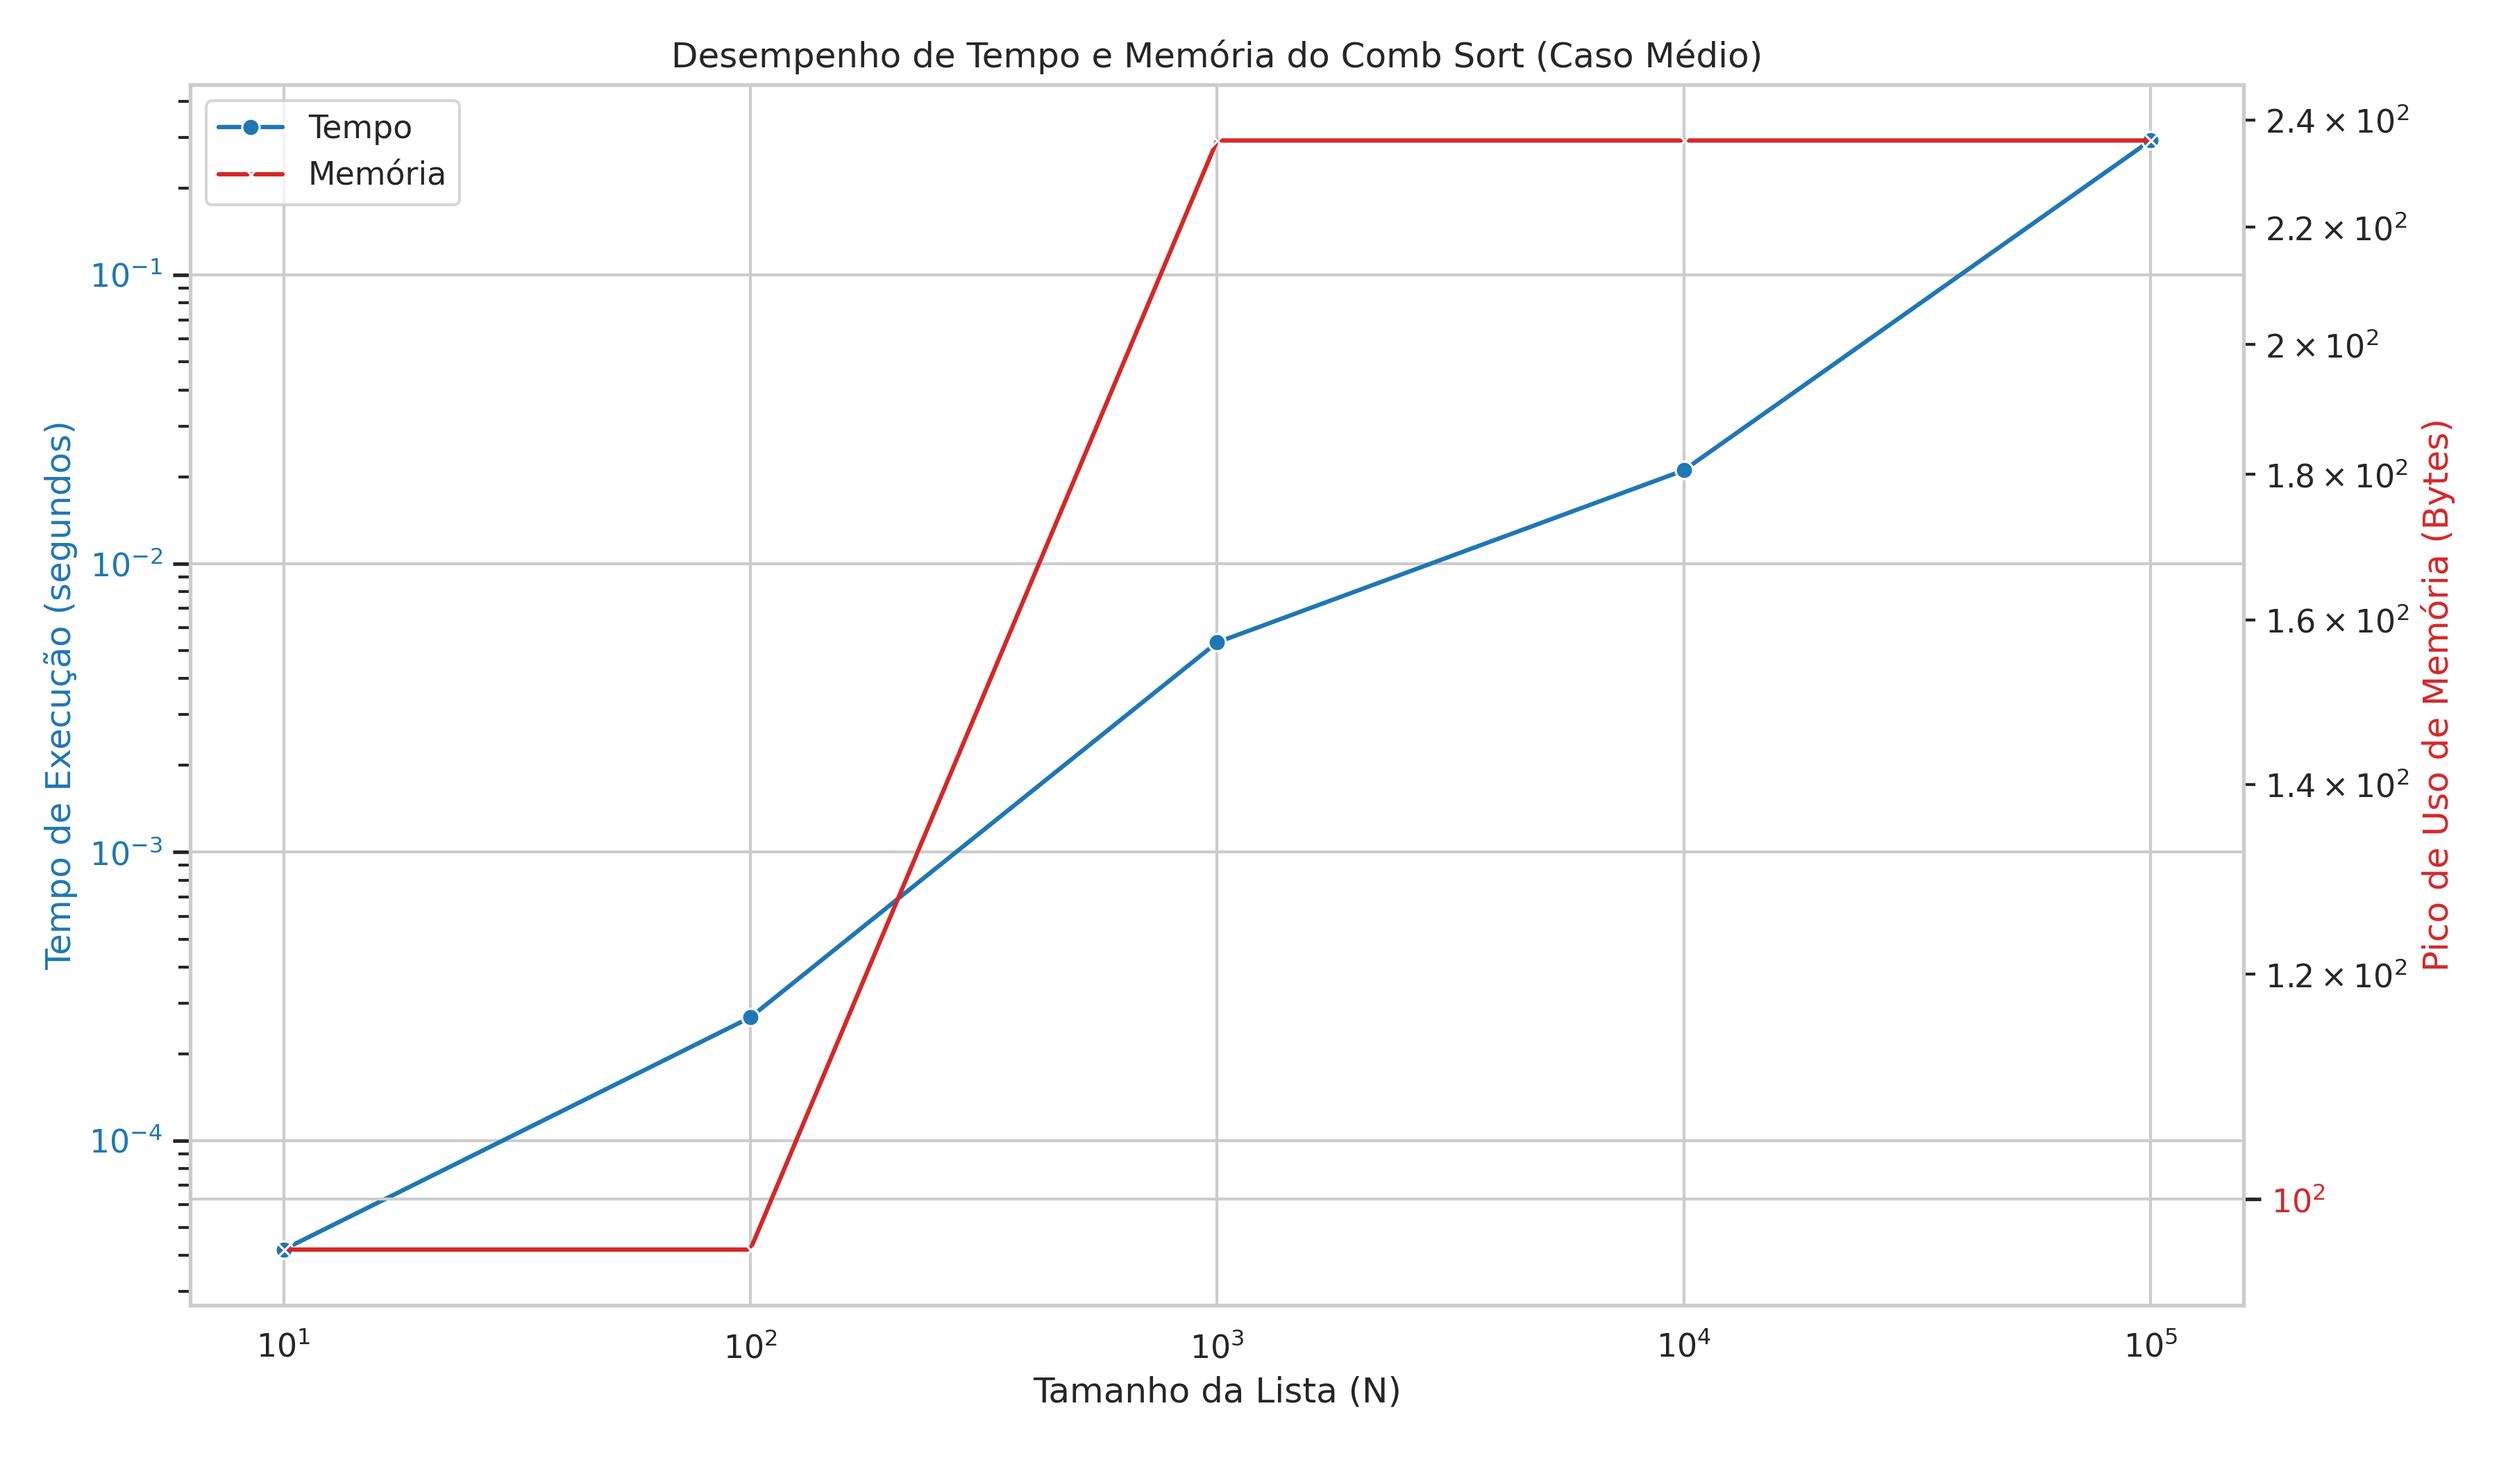
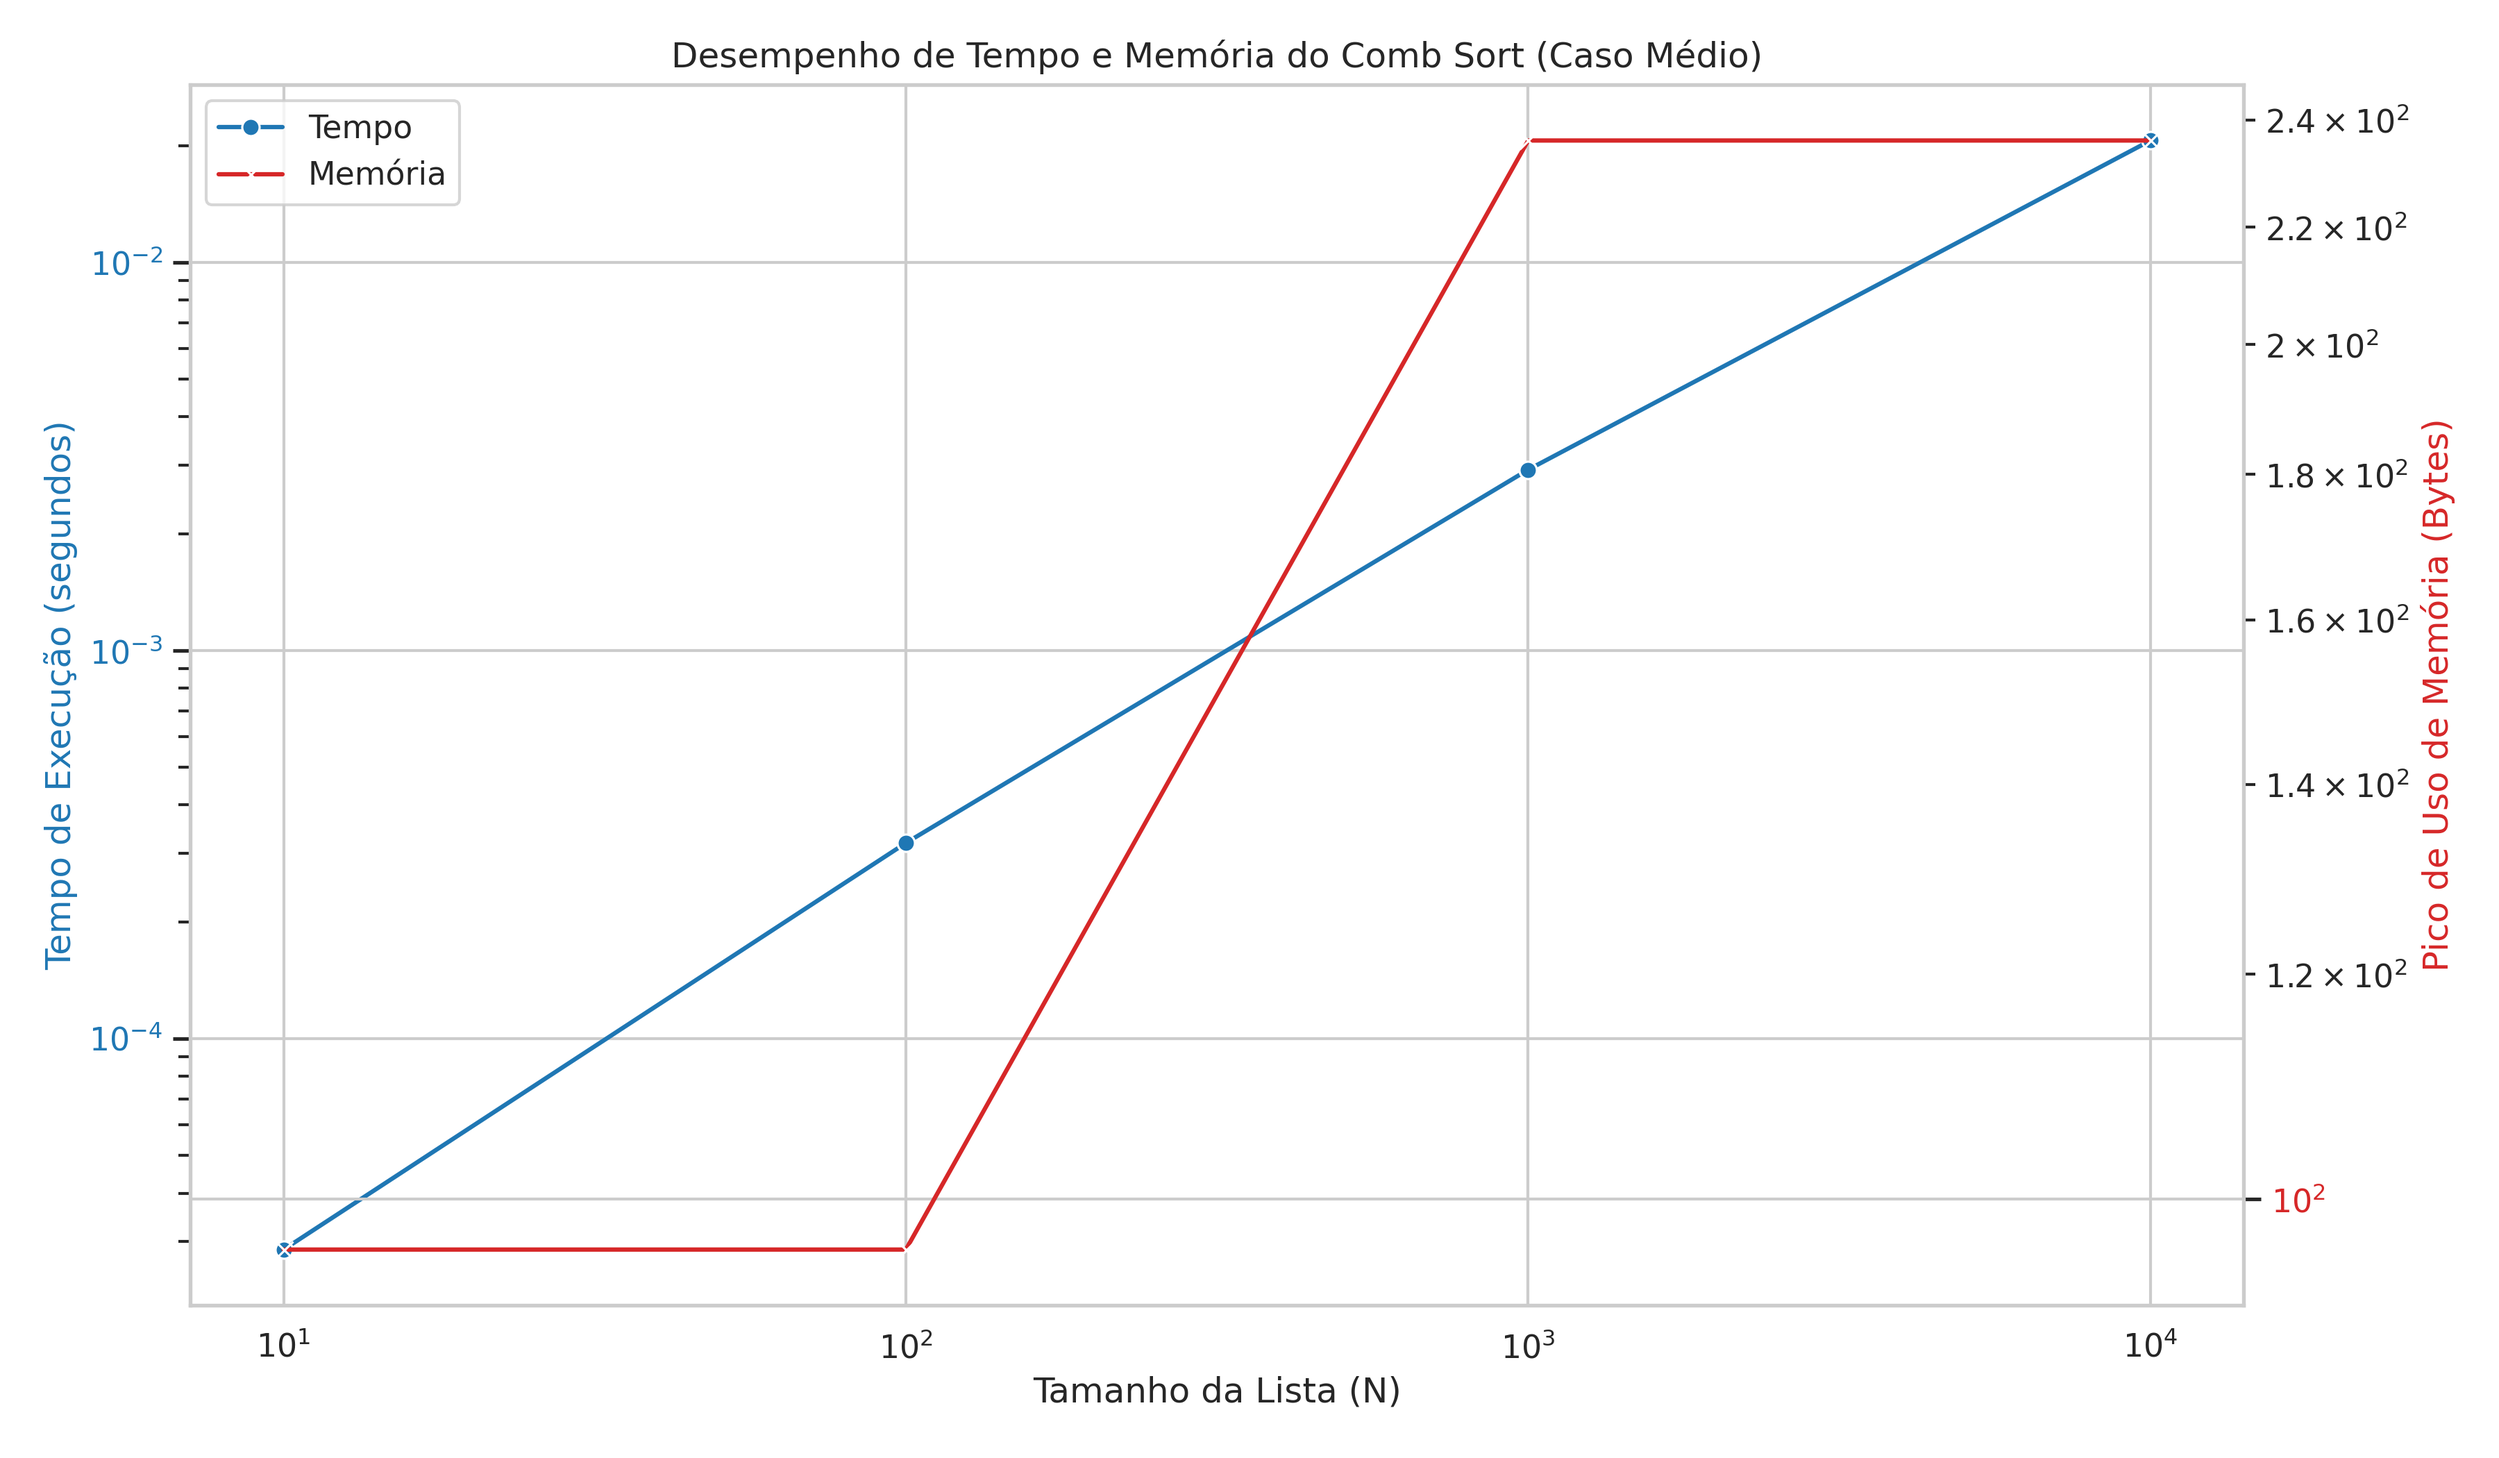
Versão atualizada com os outros algoritmos

diff --git a/CODIGO/GRAFICOS/graficos.py b/CODIGO/GRAFICOS/graficos.py
@@ -3,52 +3,40 @@ import matplotlib.pyplot as plt
 import seaborn as sns
 import os
 
-# --- Configurações ---
-NOME_PASTA_DADOS = "DADOS"
-NOME_PASTA_GRAFICOS = "GRAFICOS"
+NOME_PASTA_DADOS = "../DADOS" 
+NOME_PASTA_GRAFICOS = "." 
 
 # Nomes dos arquivos de entrada
-# ATENÇÃO: Verifique se o nome do arquivo da análise 1 corresponde ao seu arquivo gerado
-FICHEIRO_1 = "analise_1_tempo_memoria.csv" 
+FICHEIRO_1 = "analise_1_tempo_memoria.csv"
 FICHEIRO_2 = "analise_2_tipos_entrada_combsort.csv"
 FICHEIRO_3 = "analise_3_comparativa_algoritmos.csv"
 
-# Garante que a pasta para salvar os gráficos exista
 os.makedirs(NOME_PASTA_GRAFICOS, exist_ok=True)
 
 
 def grafico_1_tempo_e_memoria():
-    """
-    Gera um gráfico de escalabilidade com dois eixos Y (Tempo e Memória),
-    adaptado para ler um arquivo CSV mal formatado com dados alternados.
-    """
-    print("Gerando Gráfico 1: Escalabilidade de Tempo e Memória do Comb Sort...")
     caminho_arquivo = os.path.join(NOME_PASTA_DADOS, FICHEIRO_1)
     
-    # Carrega os dados. O cabeçalho está incorreto, mas vamos lidar com isso.
-    df = pd.read_csv(caminho_arquivo)
+    try:
+        df = pd.read_csv(caminho_arquivo)
+    except FileNotFoundError:
+        return
 
-    # --- INÍCIO DA MODIFICAÇÃO PARA LER DADOS ALTERNADOS ---
+    if 'Valor' in df.columns and 'Metrica' in df.columns:
+        df['Valor'] = pd.to_numeric(df['Valor'], errors='coerce')
+        df_tempo = df[df['Metrica'] == 'Tempo_Execucao']
+        df_memoria = df[df['Metrica'] == 'Memoria_Pico']
     
-    # Renomeia as colunas para facilitar o manuseio
-    df.columns = ['Tamanho_N', 'Valor']
+    elif len(df.columns) == 2:
+        df.columns = ['Tamanho_N', 'Valor']
+        df['Valor'] = pd.to_numeric(df['Valor'], errors='coerce')
+        df_tempo = df.iloc[0::2].copy()    
+        df_memoria = df.iloc[1::2].copy()  
+    else:
+        return
 
-    # Separa as linhas pares (índices 0, 2, 4...) que contêm o TEMPO
-    df_tempo = df.iloc[0::2].copy()
-    
-    # Separa as linhas ímpares (índices 1, 3, 5...) que contêm a MEMÓRIA
-    df_memoria = df.iloc[1::2].copy()
-    
-    # Converte a coluna 'Valor' de cada tabela para o tipo numérico
-    df_tempo['Valor'] = pd.to_numeric(df_tempo['Valor'])
-    df_memoria['Valor'] = pd.to_numeric(df_memoria['Valor'])
-
-    # --- FIM DA MODIFICAÇÃO ---
-
-    # --- Criação do Gráfico com Dois Eixos (mesma lógica de antes) ---
     fig, ax1 = plt.subplots(figsize=(12, 7))
 
-    # Eixo 1 (Esquerda) - TEMPO
     cor_tempo = 'tab:blue'
     ax1.set_xlabel('Tamanho da Lista (N)')
     ax1.set_ylabel('Tempo de Execução (segundos)', color=cor_tempo)
@@ -57,21 +45,16 @@ def grafico_1_tempo_e_memoria():
     ax1.set_xscale('log')
     ax1.set_yscale('log')
 
-    # Cria o segundo eixo Y
     ax2 = ax1.twinx()
     
-    # Eixo 2 (Direita) - MEMÓRIA
     cor_memoria = 'tab:red'
     ax2.set_ylabel('Pico de Uso de Memória (Bytes)', color=cor_memoria)
     sns.lineplot(data=df_memoria, x='Tamanho_N', y='Valor', ax=ax2, color=cor_memoria, marker='x', label='Memória')
     ax2.tick_params(axis='y', labelcolor=cor_memoria)
     ax2.set_yscale('log') 
 
-    # Título e Layout
     plt.title('Desempenho de Tempo e Memória do Comb Sort (Caso Médio)')
     fig.tight_layout()
-    
-    # Legenda
     lines, labels = ax1.get_legend_handles_labels()
     lines2, labels2 = ax2.get_legend_handles_labels()
     ax2.legend(lines + lines2, labels + labels2, loc='upper left')
@@ -81,20 +64,17 @@ def grafico_1_tempo_e_memoria():
     caminho_saida = os.path.join(NOME_PASTA_GRAFICOS, '1_tempo_vs_memoria_combsort.png')
     plt.savefig(caminho_saida, dpi=300)
     plt.close()
-    print(f"-> Gráfico salvo em: {caminho_saida}")
 
 
 def grafico_2_cenarios_combsort():
-    """
-    Gera um gráfico comparando os 3 cenários (Melhor, Médio, Pior) para o Comb Sort.
-    """
-    print("\nGerando Gráfico 2: Comb Sort por Cenário de Entrada...")
     caminho_arquivo = os.path.join(NOME_PASTA_DADOS, FICHEIRO_2)
-    df = pd.read_csv(caminho_arquivo)
+    try:
+        df = pd.read_csv(caminho_arquivo)
+    except FileNotFoundError:
+        return
 
     plt.figure(figsize=(10, 6))
     sns.lineplot(data=df, x='Tamanho_N', y='Tempo_Execucao_s', hue='Cenario', marker='o')
-
     plt.title('Desempenho do Comb Sort por Cenário de Entrada')
     plt.xlabel('Tamanho da Lista (N)')
     plt.ylabel('Tempo de Execução (segundos)')
@@ -102,39 +82,38 @@ def grafico_2_cenarios_combsort():
     plt.yscale('log')
     plt.grid(True, which="both", ls="--")
     plt.legend(title='Cenário')
-
     caminho_saida = os.path.join(NOME_PASTA_GRAFICOS, '2_comparacao_cenarios_combsort.png')
     plt.savefig(caminho_saida, dpi=300)
     plt.close()
-    print(f"-> Gráfico salvo em: {caminho_saida}")
 
 
 def grafico_3_comparativo_algoritmos():
-    """
-    Gera um gráfico comparando Comb Sort e Bubble Sort.
-    """
-    print("\nGerando Gráfico 3: Comb Sort vs. Bubble Sort...")
     caminho_arquivo = os.path.join(NOME_PASTA_DADOS, FICHEIRO_3)
-    df = pd.read_csv(caminho_arquivo)
+    try:
+        df = pd.read_csv(caminho_arquivo)
+    except FileNotFoundError:
+        return
 
-    df_pior_caso = df[df['Cenario'] == 'Lista Invertida (Pior Caso)']
+    df['Tempo_Execucao_s'] = pd.to_numeric(df['Tempo_Execucao_s'], errors='coerce')
+    cenarios = df['Cenario'].unique()
 
-    plt.figure(figsize=(10, 6))
-    sns.lineplot(data=df_pior_caso, x='Tamanho_N', y='Tempo_Execucao_s', hue='Algoritmo', marker='o')
-    
-    plt.yscale('log')
-    plt.xscale('log')
-
-    plt.title('Comparativo de Desempenho: Comb Sort vs. Bubble Sort (Pior Caso)')
-    plt.xlabel('Tamanho da Lista (N) - Escala Log')
-    plt.ylabel('Tempo de Execução (segundos) - Escala Log')
-    plt.grid(True, which="both", ls="--")
-    plt.legend(title='Algoritmo')
-    
-    caminho_saida = os.path.join(NOME_PASTA_GRAFICOS, '3_comparativo_comb_vs_bubble.png')
-    plt.savefig(caminho_saida, dpi=300)
-    plt.close()
-    print(f"-> Gráfico salvo em: {caminho_saida}")
+    for cenario in cenarios:
+        df_cenario = df[df['Cenario'] == cenario]
+        plt.figure(figsize=(12, 7))
+        sns.lineplot(data=df_cenario, x='Tamanho_N', y='Tempo_Execucao_s', hue='Algoritmo', marker='o')
+        
+        plt.yscale('log')
+        plt.xscale('log')
+        plt.title(f'Comparativo de Desempenho: {cenario}')
+        plt.xlabel('Tamanho da Lista (N) - Escala Log')
+        plt.ylabel('Tempo de Execução (segundos) - Escala Log')
+        plt.grid(True, which="both", ls="--")
+        plt.legend(title='Algoritmo')
+        
+        nome_arquivo_seguro = cenario.replace(' ', '_').replace('(', '').replace(')', '').lower()
+        caminho_saida = os.path.join(NOME_PASTA_GRAFICOS, f'3_comparativo_{nome_arquivo_seguro}.png')
+        plt.savefig(caminho_saida, dpi=300)
+        plt.close()
 
 
 if __name__ == '__main__':

diff --git a/CODIGO/combsort.py b/CODIGO/combsort.py
@@ -5,7 +5,7 @@ import sys # aumenta o limite de recursão
 import csv
 import os
 
-NOME_PASTA = "DADOS"
+NOME_PASTA = "../DADOS"
 FICHEIRO_TEMPO_MEMORIA = "analise_1_tempo_memoria.csv"
 FICHEIRO_TIPOS_ENTRADA = "analise_2_tipos_entrada_combsort.csv"
 FICHEIRO_COMPARATIVO = "analise_3_comparativa_algoritmos.csv"
@@ -54,6 +54,26 @@ def tim_sort(lista):
     return lista
 
 
+def insertion_sort(lista):
+    for i in range(1, len(lista)):
+        chave = lista[i]
+        j = i - 1
+        while j >= 0 and chave < lista[j]:
+            lista[j + 1] = lista[j]
+            j -= 1
+        lista[j + 1] = chave
+    return lista
+
+def selection_sort(lista):
+    for i in range(len(lista)):
+        idx_minimo = i
+        for j in range(i + 1, len(lista)):
+            if lista[j] < lista[idx_minimo]:
+                idx_minimo = j
+        lista[i], lista[idx_minimo] = lista[idx_minimo], lista[i]
+    return lista
+
+
 def gerar_lista_aleatoria(tamanho):
     return [random.randint(0, tamanho) for _ in range(tamanho)]
 
@@ -97,7 +117,6 @@ def executar_analise_tempo_memoria(tamanho_entrada):
 
 # Análise 2
 def analise_diferentes_entradas(tamanho_lista):
-    print(f"\n--- Análise por Tipo de Entrada (Comb Sort) para N = {tamanho_lista:,} ---")
     cabecalho = ['Tamanho_N', 'Cenario', 'Tempo_Execucao_s']
     cenarios = {
         "Caso Médio (Aleatoria)": gerar_lista_aleatoria,
@@ -117,16 +136,15 @@ def analise_diferentes_entradas(tamanho_lista):
 
 # Análise 4
 def analise_comparativa(tamanho_lista):
-
-    print("=" * 60)
-    print(f"ANÁLISE COMPARATIVA PARA N = {tamanho_lista:,}")
-    print("=" * 60)
     cabecalho = ['Tamanho_N', 'Cenario', 'Algoritmo', 'Tempo_Execucao_s']
 
     algoritmos = {
         "Comb Sort": combsort,
-        "Bubble Sort": bubble_sort
+        "Bubble Sort": bubble_sort,
+        "Insertion Sort": insertion_sort,
+        "Selection Sort": selection_sort
     }
+    
 
     cenarios = {
         "Lista Não Ordenada (Caso Médio)": gerar_lista_aleatoria,
@@ -134,15 +152,10 @@ def analise_comparativa(tamanho_lista):
         "Lista Invertida (Pior Caso)": gerar_lista_invertida
     }
 
-    # Loop principal: para cada cenário, testa cada algoritmo
     for nome_cenario, func_geradora in cenarios.items():
-        print(f"\n--- Cenário: {nome_cenario} ---")
-        
-        # Gera a lista original para este cenário uma vez
         lista_original = func_geradora(tamanho_lista)
         
         for nome_algo, func_algo in algoritmos.items():
-
             lista_para_ordenar = lista_original.copy()
             
             inicio = time.perf_counter()
@@ -150,7 +163,8 @@ def analise_comparativa(tamanho_lista):
             fim = time.perf_counter()
             tempo_execucao = fim - inicio
             tempo_formatado = f'{tempo_execucao:.8f}'
-            salvar_em_csv(FICHEIRO_COMPARATIVO, cabecalho, [tamanho_lista, nome_cenario, nome_algo, tempo_execucao])
+            
+            salvar_em_csv(FICHEIRO_COMPARATIVO, cabecalho, [tamanho_lista, nome_cenario, nome_algo, tempo_formatado])
             
 
 
@@ -183,18 +197,18 @@ def menu_principal():
     
     while True:
         print("\n" + "="*60)
-        print(" ESCOLHA A ANÁLISE DE ESCALABILIDADE QUE DESEJA EXECUTAR")
+        print(" ESCOLHA UMA ANÁLISE: ")
         print("="*60)
-        print("1. Análise de Tempo e Memória (Comb Sort)")
-        print("2. Análise por Tipo de Entrada (Comb Sort)")
-        print("3. Análise Comparativa (Comb Sort vs. Bubble Sort)")
+        print("1. Análise de Tempo e Memória")
+        print("2. Análise por Tipo de Entrada")
+        print("3. Análise Comparativa")
         print("4. Sair")
         print("-" * 60)
         
         escolha = input("Digite o número da sua escolha: ")
 
         if escolha == '4':
-            print("Programa finalizado.")
+            print("FIM.")
             break
         
         if escolha in ['1', '2', '3']:
@@ -204,10 +218,9 @@ def menu_principal():
                 n_inicial = int(n_inicial_str)
                 num_passos = int(num_passos_str)
             except ValueError:
-                print("\nErro: Entradas inválidas. Por favor, digite apenas números inteiros.")
+                print("\nErro: Digite um número válido")
                 continue
 
-            # Mapeia a escolha para a função e o arquivo correspondente
             analises = {
                 '1': (executar_analise_tempo_memoria, FICHEIRO_TEMPO_MEMORIA),
                 '2': (analise_diferentes_entradas, FICHEIRO_TIPOS_ENTRADA),
@@ -217,11 +230,7 @@ def menu_principal():
             funcao_analise, nome_ficheiro = analises[escolha]
             caminho_ficheiro = os.path.join(NOME_PASTA, nome_ficheiro)
 
-            # Apaga o arquivo antigo para garantir uma nova análise limpa
-            if os.path.exists(caminho_ficheiro):
-                os.remove(caminho_ficheiro)
-                print(f"Arquivo antigo '{nome_ficheiro}' removido.")
-            
+ 
             tamanho_atual_n = n_inicial
             for i in range(num_passos):
                 funcao_analise(tamanho_atual_n)
@@ -229,7 +238,8 @@ def menu_principal():
             
             
         else:
-            print("Opção inválida. Por favor, escolha um número de 1 a 4.")
-# --- Ponto de Entrada do Script ---
+            print("\nErro: Digite um número válido")
+
+
 if __name__ == "__main__":
     menu_principal()
